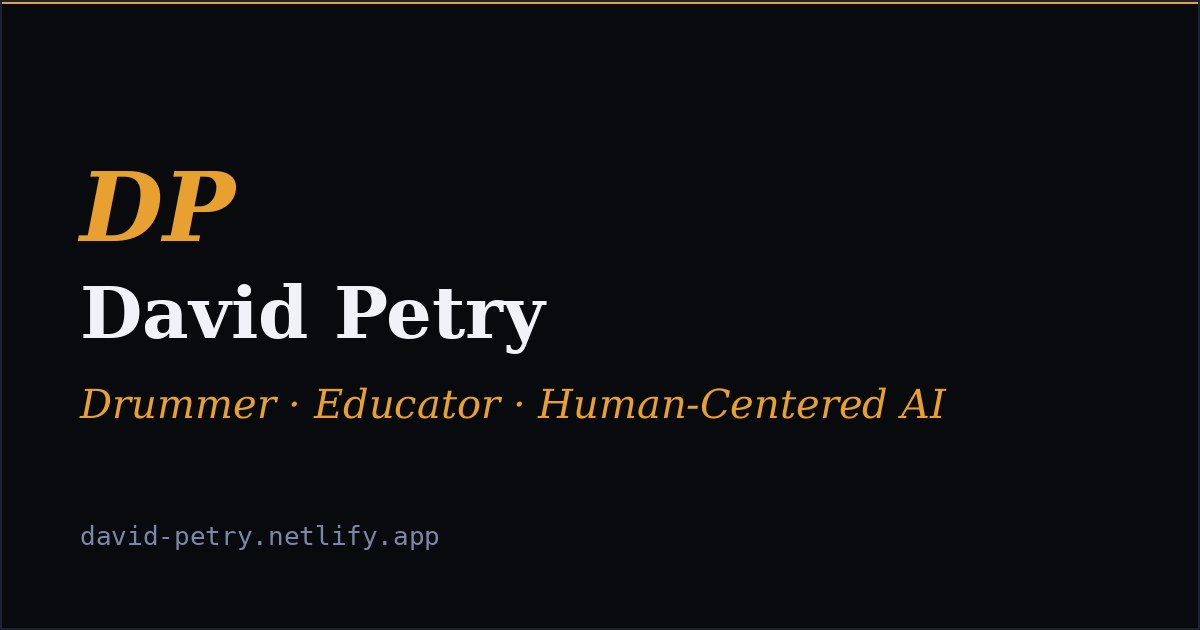
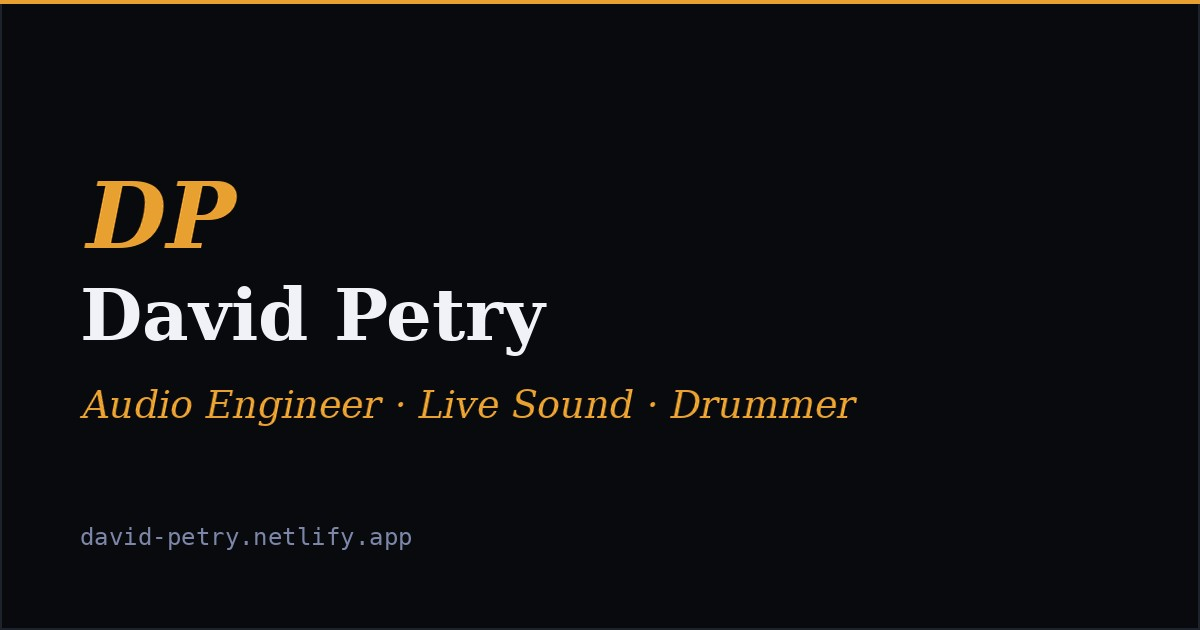
Lead the homepage with audio engineering and live sound (#29)
* Lead the homepage with audio engineering and live sound

Most of David's work is now audio engineering and live sound, but the
intro read as AI consulting only. The new hero leads with the desk and
shows range and fast learning; the About section follows the same story,
with the cloud, AI and education columns unchanged. The tab title, search
and link-preview text, job title and preview image now match.

Claude-Session: https://claude.ai/code/session_01QcBVPjuQ3sKeYN7vn8qwzM

* Intro: state the live-sound and studio timeline accurately

Live sound since June 2026; working alongside professional producers and
engineers as a drummer since 1999. Removes the line that could read as
twenty years of engineering.

Claude-Session: https://claude.ai/code/session_01QcBVPjuQ3sKeYN7vn8qwzM

* About: drop the 'technology they actually trust' line

Claude-Session: https://claude.ai/code/session_01QcBVPjuQ3sKeYN7vn8qwzM

* Trim two explanatory lines from the intro and About

Claude-Session: https://claude.ai/code/session_01QcBVPjuQ3sKeYN7vn8qwzM

* Intro: two short lines

Claude-Session: https://claude.ai/code/session_01QcBVPjuQ3sKeYN7vn8qwzM

* Intro: state the roles, no years

Claude-Session: https://claude.ai/code/session_01QcBVPjuQ3sKeYN7vn8qwzM

* Intro: title-case the roles

Claude-Session: https://claude.ai/code/session_01QcBVPjuQ3sKeYN7vn8qwzM

---------

diff --git a/index.html b/index.html
@@ -3,10 +3,10 @@
 <head>
 <meta charset="UTF-8">
 <meta name="viewport" content="width=device-width, initial-scale=1.0, viewport-fit=cover">
-<title>David Petry — Human-Centered AI</title>
-<meta name="description" content="David Petry — AI implementation consultant bridging cloud infrastructure, security, and generative AI with human-centered design. Music educator, performer, audio engineer and producer offering lessons, consultations, and a free Suno Prompt Book.">
-<meta property="og:title" content="David Petry — Human-Centered AI">
-<meta property="og:description" content="AI implementation consulting, music education, and generative AI music production — bridging cloud infrastructure and human-centered design.">
+<title>David Petry — Audio Engineer &amp; Drummer</title>
+<meta name="description" content="David Petry — audio engineer, live sound engineer and professional drummer in Denver. Studio and live mixing, music lessons, and consulting in cloud, security and human-centered AI, plus a free Suno Prompt Book.">
+<meta property="og:title" content="David Petry — Audio Engineer &amp; Drummer">
+<meta property="og:description" content="Audio engineering, live sound and music, with a fast learner's range into cloud, security and human-centered AI.">
 <meta property="og:type" content="website">
 <meta property="og:url" content="https://david-petry.netlify.app/">
 <meta property="og:image" content="https://david-petry.netlify.app/og-card.jpg">
@@ -24,7 +24,7 @@
       "@type": "Person",
       "name": "David Petry",
       "alternateName": "Dave Petry",
-      "jobTitle": "Drummer, Audio Engineer & Producer, Music Educator & AI Implementation Consultant",
+      "jobTitle": "Audio Engineer & Producer, Live Sound Engineer, Drummer, Music Educator & AI Implementation Consultant",
       "address": { "@type": "PostalAddress", "addressLocality": "Denver", "addressRegion": "CO", "addressCountry": "US" },
       "email": "mailto:davidpetry@gmail.com",
       "telephone": "+1-303-815-8838",
@@ -37,7 +37,7 @@
         "https://www.reverbnation.com/davidpetrymusic",
         "https://suno.com/@davepetry"
       ],
-      "knowsAbout": ["Drum set performance", "Percussion education", "Jazz", "Audio engineering", "Music production", "Mixing and mastering", "AI implementation", "Prompt engineering", "Cloud infrastructure"]
+      "knowsAbout": ["Drum set performance", "Percussion education", "Jazz", "Audio engineering", "Live sound", "Music production", "Mixing and mastering", "AI implementation", "Prompt engineering", "Cloud infrastructure"]
     },
     {
       "@type": "Service",
@@ -87,13 +87,12 @@
      ============================================================ -->
 <section id="hero">
   <div class="hero-inner">
-    <div class="hero-tag">Music · Education · Technology · Innovation</div>
+    <div class="hero-tag">Audio · Live Sound · Music · Technology</div>
     <h1 class="hero-name">David<br>Petry</h1>
-    <div class="hero-title">Built in the classroom.<br>Deployed in the cloud.</div>
+    <div class="hero-title">Ears on the mix.<br>Hands on the build.</div>
     <p class="hero-desc">
-      Professional drummer and audio engineer &amp; producer turned AI implementation
-      consultant. I help organizations
-      deploy AI that people actually trust and use.
+      Audio Engineer, Music Producer and Live Sound Engineer.
+      Drummer, Percussionist and Composer.
     </p>
     <div class="hero-proof">
       <span>Montreux &amp; North Sea Jazz</span>
@@ -168,11 +167,11 @@
      ============================================================ -->
 <section id="about">
   <div class="section-label">About</div>
-  <h2>The machine and<br><em>the human using it</em></h2>
+  <h2>Many rooms,<br><em>one good ear</em></h2>
   <div class="about-grid">
     <div class="about-body reveal">
-      <p><strong>Twenty years running a music school</strong> taught me what no certification can: technology only works when people understand it, trust it, and own it.</p>
-      <p>Now I bring cloud, security, and <strong>human-centered AI governance</strong> to organizations that need technology people actually adopt.</p>
+      <p><strong>Twenty years running a music school</strong> taught me how people learn, and made me a fast learner too.</p>
+      <p>Today most of my work is <strong>audio engineering and, since June 2026, live sound</strong>: recording, mixing and running front of house. The same habits carry into cloud, security and <strong>human-centered AI</strong>.</p>
     </div>
     <div class="about-pillars reveal">
       <div class="pillar">
